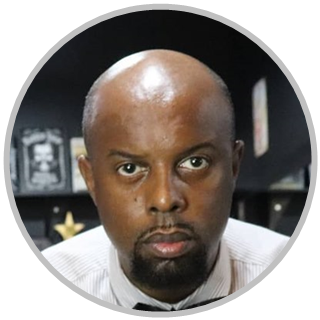
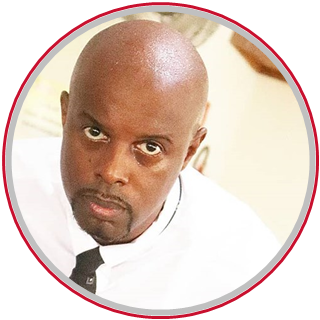
docs(readme): troca o retrato do Eduardo pela foto de camisa branca e gravata

diff --git a/README.md b/README.md
@@ -54,7 +54,7 @@
 <table>
 <tr>
 <td width="200" align="center" valign="top">
-<img src="docs/assets/eduardo-candido-avatar.png" width="170" alt="Eduardo Cândido, barbeiro da Altas Horas, de camisa listrada e gravata borboleta preta"/>
+<img src="docs/assets/eduardo-candido-avatar.png" width="170" alt="Eduardo Cândido, barbeiro e professor da Altas Horas, de camisa branca e gravata"/>
 <br/><b>Eduardo Cândido</b><br/><sub>barbeiro e professor<br/>na ativa desde 1997</sub>
 </td>
 <td valign="top">
